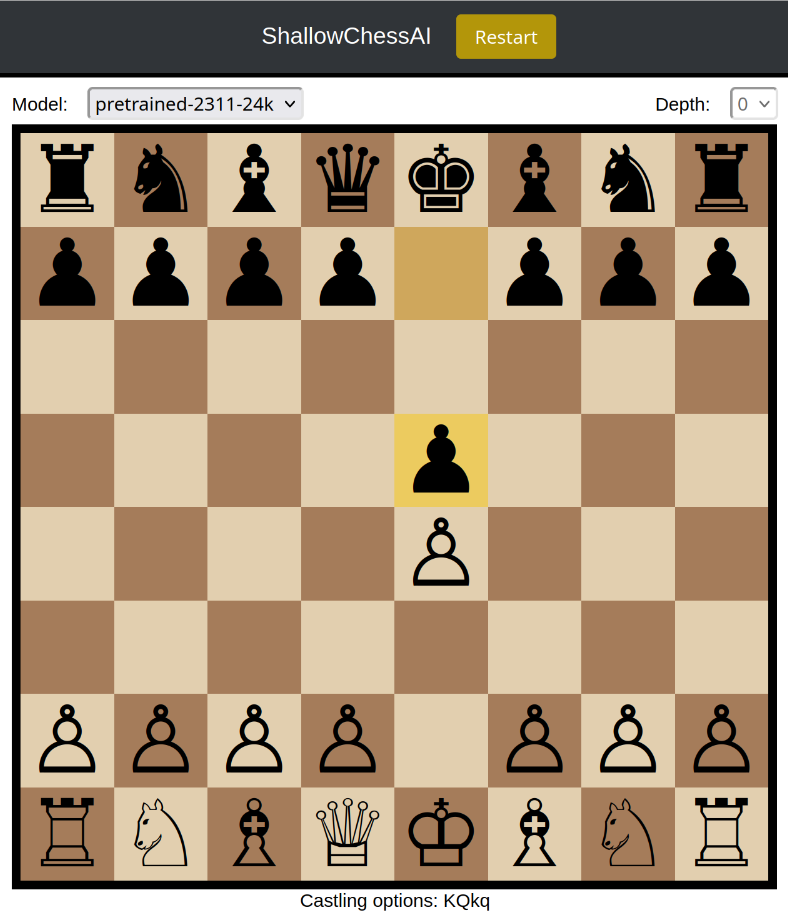
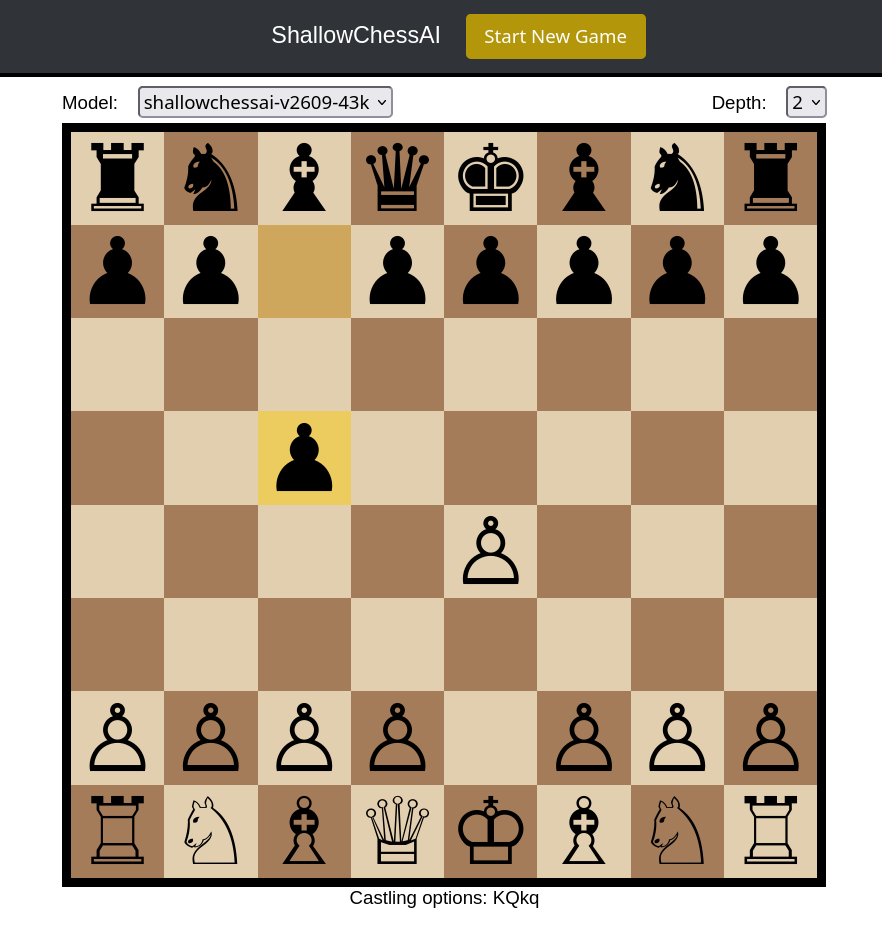
Add files via upload

diff --git a/index.html b/index.html
@@ -1,8 +1,9 @@
-<!--
+<!------------------------------------------------------------------------------
+    Personal website and portfolio
+
     Author: Andrea Pavan
     License: CC BY 4.0
--->
-
+------------------------------------------------------------------------------->
 <!DOCTYPE html>
 <html lang="en">
 <head>
@@ -32,7 +33,7 @@
         <div class="container">
             <h1>MSc in Aerospace Engineering</h1>
             <p>Hi, I'm Andrea Pavan. I specialize in fluid dynamics and aircraft architecture.</p>
-            <a href="#projects" class="btn">View my work</a>
+            <a href="#projects" class="btn">View my projects</a>
         </div>
     </section>
 
@@ -63,52 +64,10 @@
 
     <section id="projects">
         <div class="container">
-            <h2 class="section-title">Projects</h2>
+            <h2 class="section-title">Personal Projects</h2>
+
+            <h3 class="projects-subtitle">Software Projects</h3>
             <div class="projects-grid">
-                <!-- Project -->
-                <a href="https://webthesis.biblio.polito.it/26504/" target="_blank">
-                <div class="project-card">
-                    <div class="project-image">
-                        <img src="./assets/project-3d-printing-simulation.gif" alt="Thermo-mechanical simulation of the 3D printing process" class="project-image">
-                    </div>
-                    <div class="project-content">
-                        <h3 class="project-title">Thermomechanical simulation of 3D printing processes</h3>
-                        <p class="project-description">
-                            Developed a meshless method for unsteady heat transfer and linear elasticity,
-                            using it to investigate warping and inter-layer bonding strength.
-                        </p>
-                        <div class="project-tags">
-                            <span class="tag">3D Printing</span>
-                            <span class="tag">Simulation</span>
-                            <span class="tag">Julia</span>
-                            <span class="tag">Master Thesis</span>
-                        </div>
-                    </div>
-                </div>
-                </a>
-
-                <!-- Project -->
-                <a href="https://github.com/pavanandrea/AirfoilInverseDesign.jl" target="_blank">
-                <div class="project-card">
-                    <div class="project-image">
-                        <img src="./assets/project-airfoil-inverse-design.gif" alt="Airfoil inverse design and optimization" class="project-image">
-                    </div>
-                    <div class="project-content">
-                        <h3 class="project-title">Airfoil inverse design and optimization</h3>
-                        <p class="project-description">
-                            Implemented an Embedded Multi-Fidelity Inverse Design (EMFID) method,
-                            integrating XFoil and a genetic algorithm to optimize the shape of the airfoil.
-                        </p>
-                        <div class="project-tags">
-                            <span class="tag">Aerodynamics</span>
-                            <span class="tag">Optimization</span>
-                            <span class="tag">MATLAB</span>
-                            <span class="tag">Bachelor's Project</span>
-                        </div>
-                    </div>
-                </div>
-                </a>
-
                 <!-- Project -->
                 <a href="https://github.com/pavanandrea/qprop.c" target="_blank">
                 <div class="project-card">
@@ -133,17 +92,17 @@
                 <!-- Project -->
                 <div class="project-card">
                     <div class="project-image">
-                        <img src="./assets/project-cfd-solver.png" alt="CFD Solver" class="project-image">
+                        <img src="./assets/project-ransc.png" alt="rans.c" class="project-image">
                     </div>
                     <div class="project-content">
-                        <h3 class="project-title">Unstructured multiphysics CFD solver</h3>
+                        <h3 class="project-title">rans.c - GPU-resident CFD solver</h3>
                         <p class="project-description">
-                            Currently developing a FVM solver from scratch for high-ﬁdelity aero-thermo-mechanical simulations on 3D unstructured meshes.
+                            An unstructured compressible RANS solver developed from scratch to minimize memory usage on consumer GPUs.
                         </p>
                         <div class="project-tags">
                             <span class="tag">Aerodynamics</span>
                             <span class="tag">Simulation</span>
-                            <span class="tag">Julia</span>
+                            <span class="tag">OpenCL</span>
                             <span class="tag">Personal Project</span>
                         </div>
                     </div>
@@ -184,6 +143,95 @@
                             <span class="tag">Flight Mechanics</span>
                             <span class="tag">C</span>
                             <span class="tag">Personal Project</span>
+                        </div>
+                    </div>
+                </div>
+                </a>
+
+                <!-- Project -->
+                <a href="https://github.com/pavanandrea/ShallowChessAI/" target="_blank">
+                <div class="project-card">
+                    <div class="project-image">
+                        <img src="./assets/project-shallowchessai.png" alt="ShallowChessAI" class="project-image">
+                    </div>
+                    <div class="project-content">
+                        <h3 class="project-title">ShallowChessAI - Low-depth chess engine</h3>
+                        <p class="project-description">
+                            A traditional alpha-beta chess engine coupled with a neural network trained on millions of positions via supervised learning using Stockfish as the teacher.
+                        </p>
+                        <div class="project-tags">
+                            <span class="tag">Machine Learning</span>
+                            <span class="tag">Python</span>
+                            <span class="tag">C</span>
+                            <span class="tag">Personal Project</span>
+                        </div>
+                    </div>
+                </div>
+                </a>
+
+                <!-- Project -->
+                <a href="https://github.com/pavanandrea/TeenySlicer/" target="_blank">
+                <div class="project-card">
+                    <div class="project-image">
+                        <img src="./assets/project-teenyslicer.png" alt="TeenySlicer" class="project-image">
+                    </div>
+                    <div class="project-content">
+                        <h3 class="project-title">TeenySlicer - Web-based 3D printing slicer</h3>
+                        <p class="project-description">
+                            A simple slicing software for 3D printing, running entirely in a web browser. Developed just for fun, serving as a sandbox for testing out new ideas.
+                        </p>
+                        <div class="project-tags">
+                            <span class="tag">3D Printing</span>
+                            <span class="tag">Computational Geometry</span>
+                            <span class="tag">C</span>
+                            <span class="tag">Personal Project</span>
+                        </div>
+                    </div>
+                </div>
+                </a>
+            </div>
+
+            <h3 class="projects-subtitle">Engineering Projects</h3>
+            <div class="projects-grid">
+                <!-- Project -->
+                <a href="https://webthesis.biblio.polito.it/26504/" target="_blank">
+                <div class="project-card">
+                    <div class="project-image">
+                        <img src="./assets/project-3d-printing-simulation.gif" alt="Thermo-mechanical simulation of the 3D printing process" class="project-image">
+                    </div>
+                    <div class="project-content">
+                        <h3 class="project-title">Thermomechanical simulation of 3D printing processes</h3>
+                        <p class="project-description">
+                            Developed a meshless method for unsteady heat transfer and linear elasticity,
+                            using it to investigate warping and inter-layer bonding strength.
+                        </p>
+                        <div class="project-tags">
+                            <span class="tag">3D Printing</span>
+                            <span class="tag">Simulation</span>
+                            <span class="tag">Julia</span>
+                            <span class="tag">Master Thesis</span>
+                        </div>
+                    </div>
+                </div>
+                </a>
+
+                <!-- Project -->
+                <a href="https://github.com/pavanandrea/AirfoilInverseDesign.jl" target="_blank">
+                <div class="project-card">
+                    <div class="project-image">
+                        <img src="./assets/project-airfoil-inverse-design.gif" alt="Airfoil inverse design and optimization" class="project-image">
+                    </div>
+                    <div class="project-content">
+                        <h3 class="project-title">Airfoil inverse design and optimization</h3>
+                        <p class="project-description">
+                            Implemented an Embedded Multi-Fidelity Inverse Design (EMFID) method,
+                            integrating XFoil and a genetic algorithm to optimize the shape of the airfoil.
+                        </p>
+                        <div class="project-tags">
+                            <span class="tag">Aerodynamics</span>
+                            <span class="tag">Optimization</span>
+                            <span class="tag">MATLAB</span>
+                            <span class="tag">Bachelor's Project</span>
                         </div>
                     </div>
                 </div>
@@ -247,48 +295,6 @@
                 </div>
 
                 <!-- Project -->
-                <a href="https://github.com/pavanandrea/ShallowChessAI/" target="_blank">
-                <div class="project-card">
-                    <div class="project-image">
-                        <img src="./assets/project-shallowchessai.png" alt="ShallowChessAI" class="project-image">
-                    </div>
-                    <div class="project-content">
-                        <h3 class="project-title">ShallowChessAI - Chess engine with limited look-ahead</h3>
-                        <p class="project-description">
-                            Developed a minimax chess engine that uses a MLP neural network as evaluation function, trained on Stockﬁsh scores to play at low search depths.
-                        </p>
-                        <div class="project-tags">
-                            <span class="tag">Machine Learning</span>
-                            <span class="tag">Julia</span>
-                            <span class="tag">C</span>
-                            <span class="tag">Personal Project</span>
-                        </div>
-                    </div>
-                </div>
-                </a>
-
-                <!-- Project -->
-                <a href="https://github.com/pavanandrea/TeenySlicer/" target="_blank">
-                <div class="project-card">
-                    <div class="project-image">
-                        <img src="./assets/project-teenyslicer.png" alt="TeenySlicer" class="project-image">
-                    </div>
-                    <div class="project-content">
-                        <h3 class="project-title">TeenySlicer - Web-based 3D printing slicer</h3>
-                        <p class="project-description">
-                            A simple slicing software for 3D printing, running entirely in a web browser. Developed just for fun, serving as a sandbox for testing out new ideas.
-                        </p>
-                        <div class="project-tags">
-                            <span class="tag">3D Printing</span>
-                            <span class="tag">Computational Geometry</span>
-                            <span class="tag">C</span>
-                            <span class="tag">Personal Project</span>
-                        </div>
-                    </div>
-                </div>
-                </a>
-
-                <!-- Project -->
                 <div class="project-card">
                     <div class="project-image">
                         <img src="./assets/project-corexy-3d-printer.jpg" alt="Homebuilt 3D printer" class="project-image">
@@ -326,8 +332,10 @@
                     </div>
                 </div>
             </div>
+
         </div>
     </section>
+
 
     <section id="skills">
         <div class="container">
@@ -413,7 +421,6 @@
     <footer>
         <div class="container">
             <p>Copyright &copy; 2024 Andrea Pavan. All rights reserved.</p>
-            <p>Made from scratch in raw HTML and CSS</p>
             <p>Except where otherwise noted, content on this site is licensed under <a href="http://creativecommons.org/licenses/by/4.0/">CC BY 4.0</a><p>
         </div>
     </footer>

diff --git a/style.css b/style.css
@@ -5,7 +5,7 @@
 
 :root {
     --primary-color: #2563eb;
-    --secondary-color: #8b5cf6;
+    --secondary-color: #1e5270;
     --text-color: #1f2937;
     --text-light: #6b7280;
     --bg-color: #ffffff;
@@ -23,7 +23,7 @@
 @media (prefers-color-scheme: dark) {
     :root {
         --primary-color: #3b82f6;
-        --secondary-color: #a855f7;
+        --secondary-color: #345f79;
         --text-color: #f9fafb;
         --text-light: #d1d5db;
         --bg-color: #111827;
@@ -201,6 +201,15 @@ section {
     gap: 2rem;
 }
 
+.projects-subtitle {
+    font-size: 1.5rem;
+    color: var(--secondary-color);
+    margin-top: 2rem;
+    margin-bottom: 2rem;
+    padding-bottom: 0.4rem;
+    border-bottom: 2px solid var(--border-color);
+}
+
 .project-card {
     background-color: var(--card-bg);
     border-radius: 10px;
@@ -303,7 +312,8 @@ section {
     Contact
 ***************************************************/
 .contact-section {
-    background-color: var(--primary-color);
+    /*background-color: var(--primary-color);*/
+    background: linear-gradient(135deg, var(--primary-color) 0%, var(--secondary-color) 100%);
     color: white;
     text-align: center;
     padding: 4rem 0;
